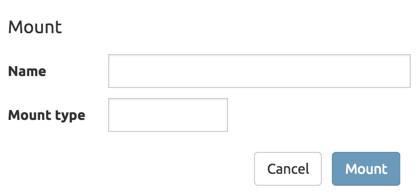
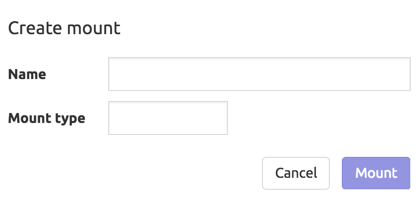
Updating screenshots to new theme

diff --git a/source/developers-guide.rst b/source/developers-guide.rst
@@ -150,19 +150,25 @@ and their descriptions following the image.
 +--------+------------------------------------------------------------------------------+
 |     2  |  The current path you are viewing. In this example it is the Home path (/).  |
 +--------+------------------------------------------------------------------------------+
-|     3  |  The wrench icon configures a mount.                                         |
+|     3  |  Create a new mount (data source).                                           |
 +--------+------------------------------------------------------------------------------+
-|     4  |  The eye icon toggles visibility of the trash can icon.                      |
+|     4  |  Create a new workspace.                                                     |
 +--------+------------------------------------------------------------------------------+
-|     5  |  Download all data starting from this path.                                  |
+|     5  |  Create a new folder in the datasource virtual file system.                  |
 +--------+------------------------------------------------------------------------------+
-|     6  |  Mount a new data source.                                                    |
+|     6  |  Toggles visibility of hidden items (i.e `.trash` folder).                   |
 +--------+------------------------------------------------------------------------------+
-|     7  |  Create a new folder in the datasource virtual file system.                  |
+|     7  |  Download all data starting from this path.                                  |
 +--------+------------------------------------------------------------------------------+
-|     8  |  Upload a data file.                                                         |
+|     8  |  Upload a data file to the collection (must be CSV or JSON format).          |
 +--------+------------------------------------------------------------------------------+
-|     9  |  Create a new workspace.                                                     |
+|     9  |  Edit the mount.                                                             |
++--------+------------------------------------------------------------------------------+
+|    10  |  Rename the mount.                                                           |
++--------+------------------------------------------------------------------------------+
+|    11  |  Download all data for the mount.                                            |
++--------+------------------------------------------------------------------------------+
+|    12  |  Delete the mount.                                                           |
 +--------+------------------------------------------------------------------------------+
 
 
@@ -372,21 +378,12 @@ To simply look around and explore data, you can click on any file
 (collection) that you see.  Start by clicking on the **patients**
 file.
 
-You'll be prompted to provide a name for a new Workspace.  A
-Workspace is how users interact with the actual data within the
-database.  Let's start by calling this ``My First Test`` and
-clicking **Explore**.
-
-|Name-Workspace|
-
-Once you click Explore, the following screen should appear:
-
 |First-Explore-Annotated|
 
 +--------+---------------------------------------------------------------------------------------+
 | Number | Description                                                                           |
 +========+=======================================================================================+
-|     1  |  Zoom icon takes user out of the Workspace and back to the database screen.           |
+|     1  |  `<` icon takes user out of the Workspace and back to the database screen.            |
 +--------+---------------------------------------------------------------------------------------+
 |     2  |  Flip the card over for more options.                                                 |
 +--------+---------------------------------------------------------------------------------------+
@@ -394,7 +391,7 @@ Once you click Explore, the following screen should appear:
 +--------+---------------------------------------------------------------------------------------+
 |     4  |  Browse controls for the current card.                                                |
 +--------+---------------------------------------------------------------------------------------+
-|     5  |  Your position within the deck. Gray circle indicates your place, white circles are   |
+|     5  |  Your position within the deck. Purple circle indicates your place, gray circles are  |
 |        |  available to view.                                                                   |
 +--------+---------------------------------------------------------------------------------------+
 
@@ -712,8 +709,8 @@ the existing Workspace alone or you can delete it if you wish.
 
 To (optionally) delete the existing Workspace:
 
-* If you are still in the Workspace, click on the zoom-out
-  icon. |Zoom-Out|
+* If you are still in the Workspace, click on the back to filesystem
+  icon. |Back-to-FileSystem|
 
 * Locate the **My First Test** Workspace and hover your mouse over it.
 
@@ -742,7 +739,7 @@ with it.
 * Replace **Untitled Workspace** with ``Average Weight by City``
   and click **Rename**.
 
-* Click on the **Average Weight by City.slam** Workspace again.
+* Hover over the **Average Weight by City.slam** Workspace and click on the edit icon. |Icon-Edit|
 
 Ensure that you are in the **Setup Markdown Card**.
 
@@ -880,6 +877,8 @@ cities within that state.
 
 * Select **Wrap**.
 
+* Select **Setup Dashboard**
+
 Note that your interface should now look similar to the following:
 
 |Wrapped-Deck|
@@ -975,9 +974,11 @@ that decks can build off one another.  We need to now mirror the
 
 * Select the **Bar Chart** icon.
 
-The bar chart icon will change from gray to blue to show that it is active.
+* For the **Category**, select **City**. This will be the y-axis source. Click on the **Confirm** button.
 
-* For the **Category**, select **.City** as the axis source.
+* For the **Measure**, select **AvgWeight**. This will be the x-access source. Click on the **Confirm** button.
+
+* Change the **Label angle** value to 45.0 so the city names do not overlap each other.
 
 * Slide to the right to create a new card and select **Show Chart**.
 
@@ -990,6 +991,8 @@ Your interface should now look like the following image:
 
 * Try hovering your mouse over the individual bars in the chart and you can
   view the actual value.
+
+|Bar-Chart-Hover-With-Value|
 
 Setting up interactive forms and charts is as simple as that!  In the next
 section we'll go over how to share these charts with others.
@@ -1020,23 +1023,23 @@ The URL will only be accessible while SlamData is running.
 .. _eCharts: https://ecomfe.github.io/echarts/index-en.html
 
 
-.. |Murray| image:: images/SD4/murray.png
-
-.. |Murray-Small| image:: images/SD4/murray-small.png
-
-.. |Home-Annotated| image:: images/SD4/screenshots/home-annotated-with-numbers.png
+.. |Home-Annotated| image:: images/screenshots/home-annotated-with-numbers.png
 
 .. |Icon-Mount| image:: images/icons/icon-mount.png
 
-.. |Mount-Dialog| image:: images/SD4/screenshots/mount-dialog.png
+.. |Icon-Edit| image:: images/icons/icon-edit.png
 
-.. |Mount-Dialog-Complete| image:: images/SD4/screenshots/mount-dialog-complete.png
+.. |Mount-Dialog| image:: images/screenshots/mount-dialog.png
+
+.. |Mount-Dialog-Complete| image:: images/screenshots/mount-dialog-complete.png
 
 .. |Create-Folder| image:: images/icons/icon-create-folder.png
 
 .. |Move-Rename| image:: images/icons/icon-move-rename.png
 
 .. |Zoom-Out| image:: images/icons/icon-zoom-out.png
+
+.. |Back-to-FileSystem| image:: images/icons/icon-back-to-filesystem.png
 
 .. |Create-Workspace| image:: images/icons/icon-create-workspace.png
 
@@ -1046,61 +1049,31 @@ The URL will only be accessible while SlamData is running.
 
 .. |Icon-Flip| image:: images/icons/icon-flip-deck.png
 
-.. |Icon-Gray-Bar-Chart| image:: images/SD4/icon-gray-bar.png
+.. |In-Devdb| image:: images/screenshots/in-devdb-clean.png
 
-.. |In-Devdb| image:: images/SD4/screenshots/in-devdb-clean.png
+.. |After-Upload| image:: images/screenshots/after-upload.png
 
-.. |After-Upload| image:: images/SD4/screenshots/after-upload.png
+.. |First-Explore-Annotated| image:: images/screenshots/first-explore-annotated.png
 
-.. |Name-Workspace| image:: images/SD4/screenshots/name-workspace.png
+.. |Wrapped-Deck| image:: images/screenshots/wrapped-deck.png
 
-.. |First-Explore-Annotated| image:: images/SD4/screenshots/first-explore-annotated.png
+.. |Mirrored-Deck| image:: images/screenshots/mirrored-deck.png
 
-.. |Wrapped-Deck| image:: images/SD4/screenshots/wrapped-deck.png
+.. |Card-Back| image:: images/screenshots/back-of-card.png
 
-.. |Mirrored-Deck| image:: images/SD4/screenshots/mirrored-deck.png
+.. |Card-Choices-1| image:: images/screenshots/new-card-choices-1.png
 
-.. |Card-Back| image:: images/SD4/screenshots/back-of-card.png
+.. |MD-and-Show-Decks| image:: images/screenshots/md-and-show-decks.png
 
-.. |Card-Choices-1| image:: images/SD4/screenshots/new-card-choices-1.png
+.. |All-3-Decks| image:: images/screenshots/all-3-decks.png
 
-.. |MD-and-Show-Decks| image:: images/SD4/screenshots/md-and-show-decks.png
+.. |Zip-Results| image:: images/screenshots/zip-results.png
 
-.. |All-3-Decks| image:: images/SD4/screenshots/all-3-decks.png
+.. |All-3-With-Chart| image:: images/screenshots/all-3-with-chart.png
 
-.. |Zip-Results| image:: images/SD4/screenshots/zip-results.png
-
-.. |All-3-With-Chart| image:: images/SD4/screenshots/all-3-with-chart.png
+.. |Bar-Chart-Hover-With-Value| image:: images/screenshots/bar-chart-hover-with-value.png
 
 .. |SD-Nesting| image:: images/SD4/screenshots/sd-nesting.png
-
-.. |Embed-Code-1| image:: images/SD4/screenshots/embed-code-1.png
-
-.. |Embed-Code-2| image:: images/SD4/screenshots/embed-code-2.png
-
-.. |Embed-Code-3| image:: images/SD4/screenshots/embed-code-3.png
-
-.. |Sample-1-1-Full-Report| image:: images/SD4/screenshots/sample-1-1-full-report.png
-
-.. |Report-2-Workspace| image:: images/SD4/screenshots/report-2-workspace.png
-
-.. |Sample-1-2-Full-Report| image:: images/SD4/screenshots/sample-1-2-full-report.png
-
-.. |Config-Example| image:: images/SD4/screenshots/config-example.png
-
-.. |Header-Grip| image:: images/SD4/screenshots/header-grip.png
-
-.. |Sign-In| image:: images/SD4/screenshots/sign-in.png
-
-.. |Navigate| image:: images/SD4/screenshots/navigate.png
-
-.. |Embed-Code-Secure-1| image:: images/SD4/screenshots/embed-code-secure-1.png
-
-.. |Embed-Code-Secure-2| image:: images/SD4/screenshots/embed-code-secure-2.png
-
-.. |Embed-Code-Secure-3| image:: images/SD4/screenshots/embed-code-secure-3.png
-
-.. |Sample-2-1-Full-Report| image:: images/SD4/screenshots/sample-2-1-full-report.png
 
 .. |Repo-Link| raw:: html
 
